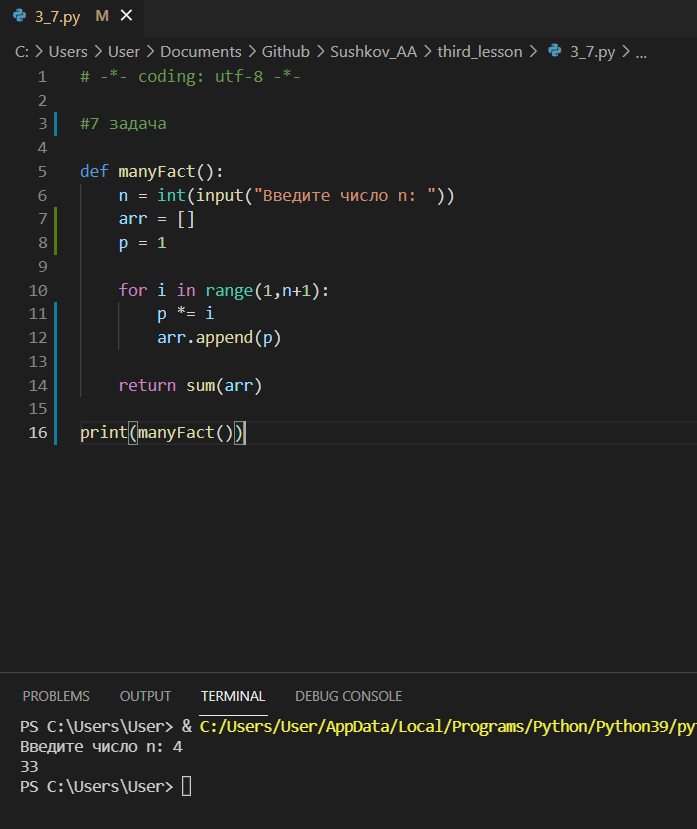
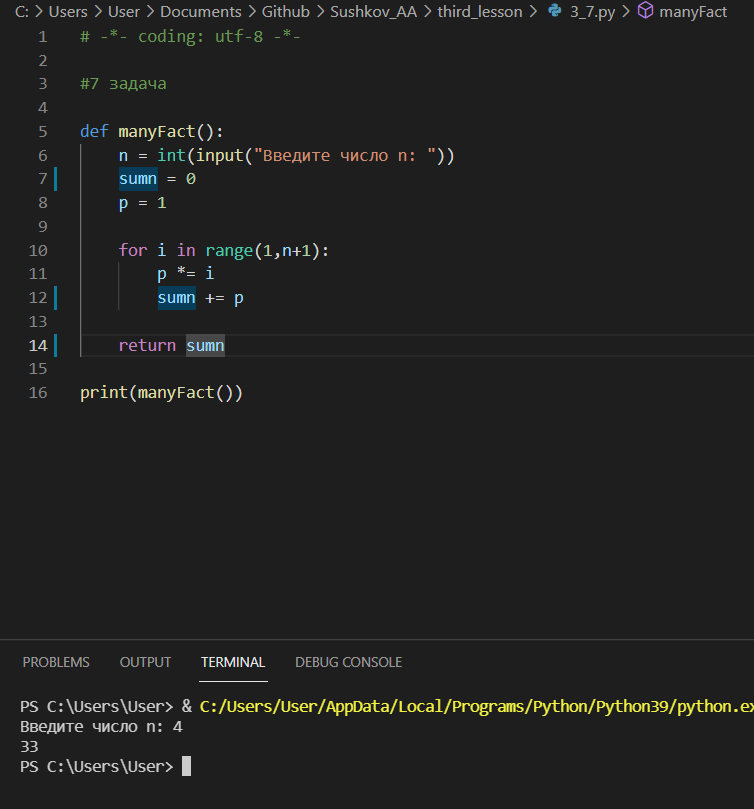
update

diff --git a/third_lesson/3_10.py b/third_lesson/3_10.py
@@ -4,15 +4,19 @@
 
 def fiboSum():
     N = int(input("Введите число N: "))
-    K = int(input("Введите число K: "))
-    f_arr = [0, 1]
+    k = int(input("Введите число k: "))
+    past_num = 0
+    present_num = 1
     sumn = 0
 
-    for i in range(3, N+1):
-        f_arr.append(f_arr[-1]+f_arr[-2])
-        
-        if i >= K:
-            sumn += f_arr[i-1]
+    for i in range(2, N+1):
+        if k <= i:
+            sumn += present_num
+
+        time = present_num
+        present_num += past_num
+        past_num = time
+
     return sumn
 
 print(fiboSum())

diff --git a/third_lesson/3_4.py b/third_lesson/3_4.py
@@ -3,11 +3,10 @@
 #4 задача
 
 def sumn():
-    N = int(input("Введите количество чисел: "))
-    arr = [0] * N
+    sumn = 0
 
-    for i in range(N):
-        arr[i] = int(input(f"Введите {i+1} число: "))
-    return "Сумма равна " + str(sum(arr))
+    for i in range(int(input("Введите количество чисел: "))):
+        sumn += int(input(f"Введите {i+1} число: "))
+    return "Сумма равна " + str(sumn)
 
 print(sumn())

diff --git a/third_lesson/3_9.py b/third_lesson/3_9.py
@@ -4,10 +4,17 @@
 
 def fiboSum():
     N = int(input("Введите число N: "))
-    f_arr = [0, 1]
+    past_num = 0
+    present_num = 1
+    sumn = 0
 
-    for i in range(3, N+1):
-        f_arr.append(f_arr[-1]+f_arr[-2])
-    return sum(f_arr)
+    for i in range(2, N+1):
+        sumn += present_num
+
+        time = present_num
+        present_num += past_num
+        past_num = time
+
+    return sumn
 
 print(fiboSum())

diff --git a/third_lesson/3_7.py b/third_lesson/3_7.py
@@ -4,13 +4,13 @@
 
 def manyFact():
     n = int(input("Введите число n: "))
-    arr = []
+    sumn = 0
     p = 1
 
     for i in range(1,n+1):
         p *= i
-        arr.append(p)
+        sumn += p
     
-    return sum(arr)
+    return sumn
 
 print(manyFact())
